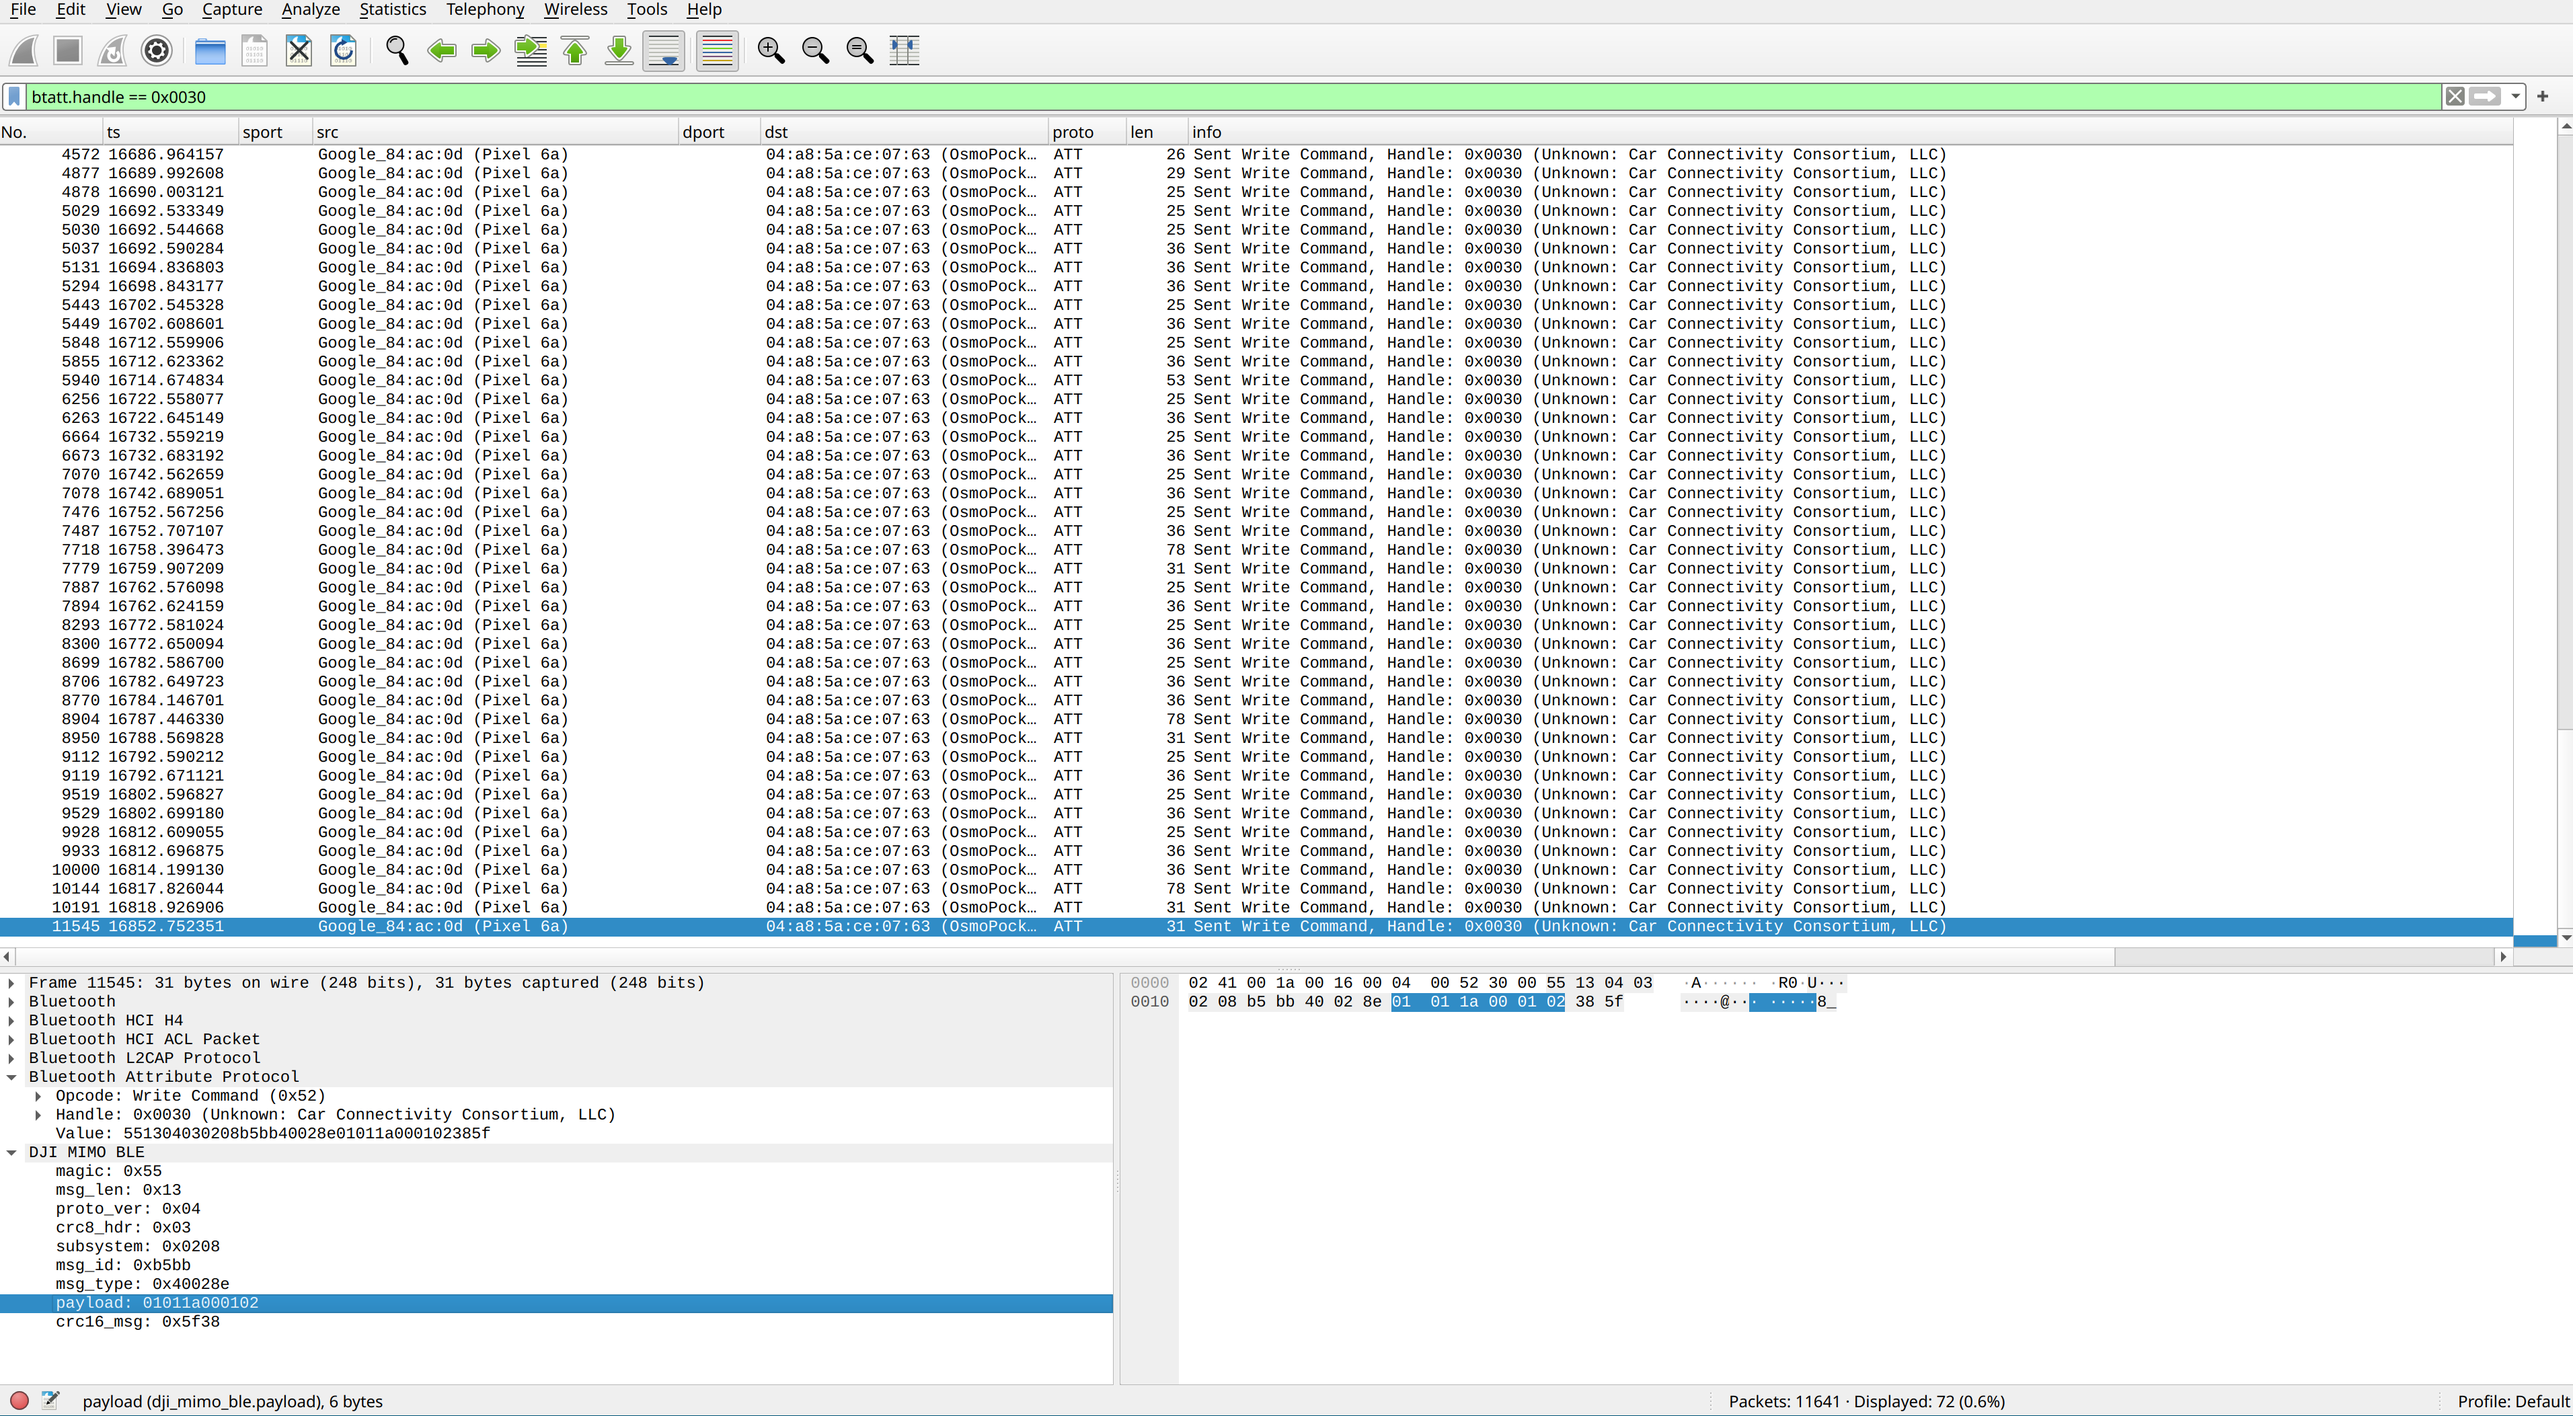
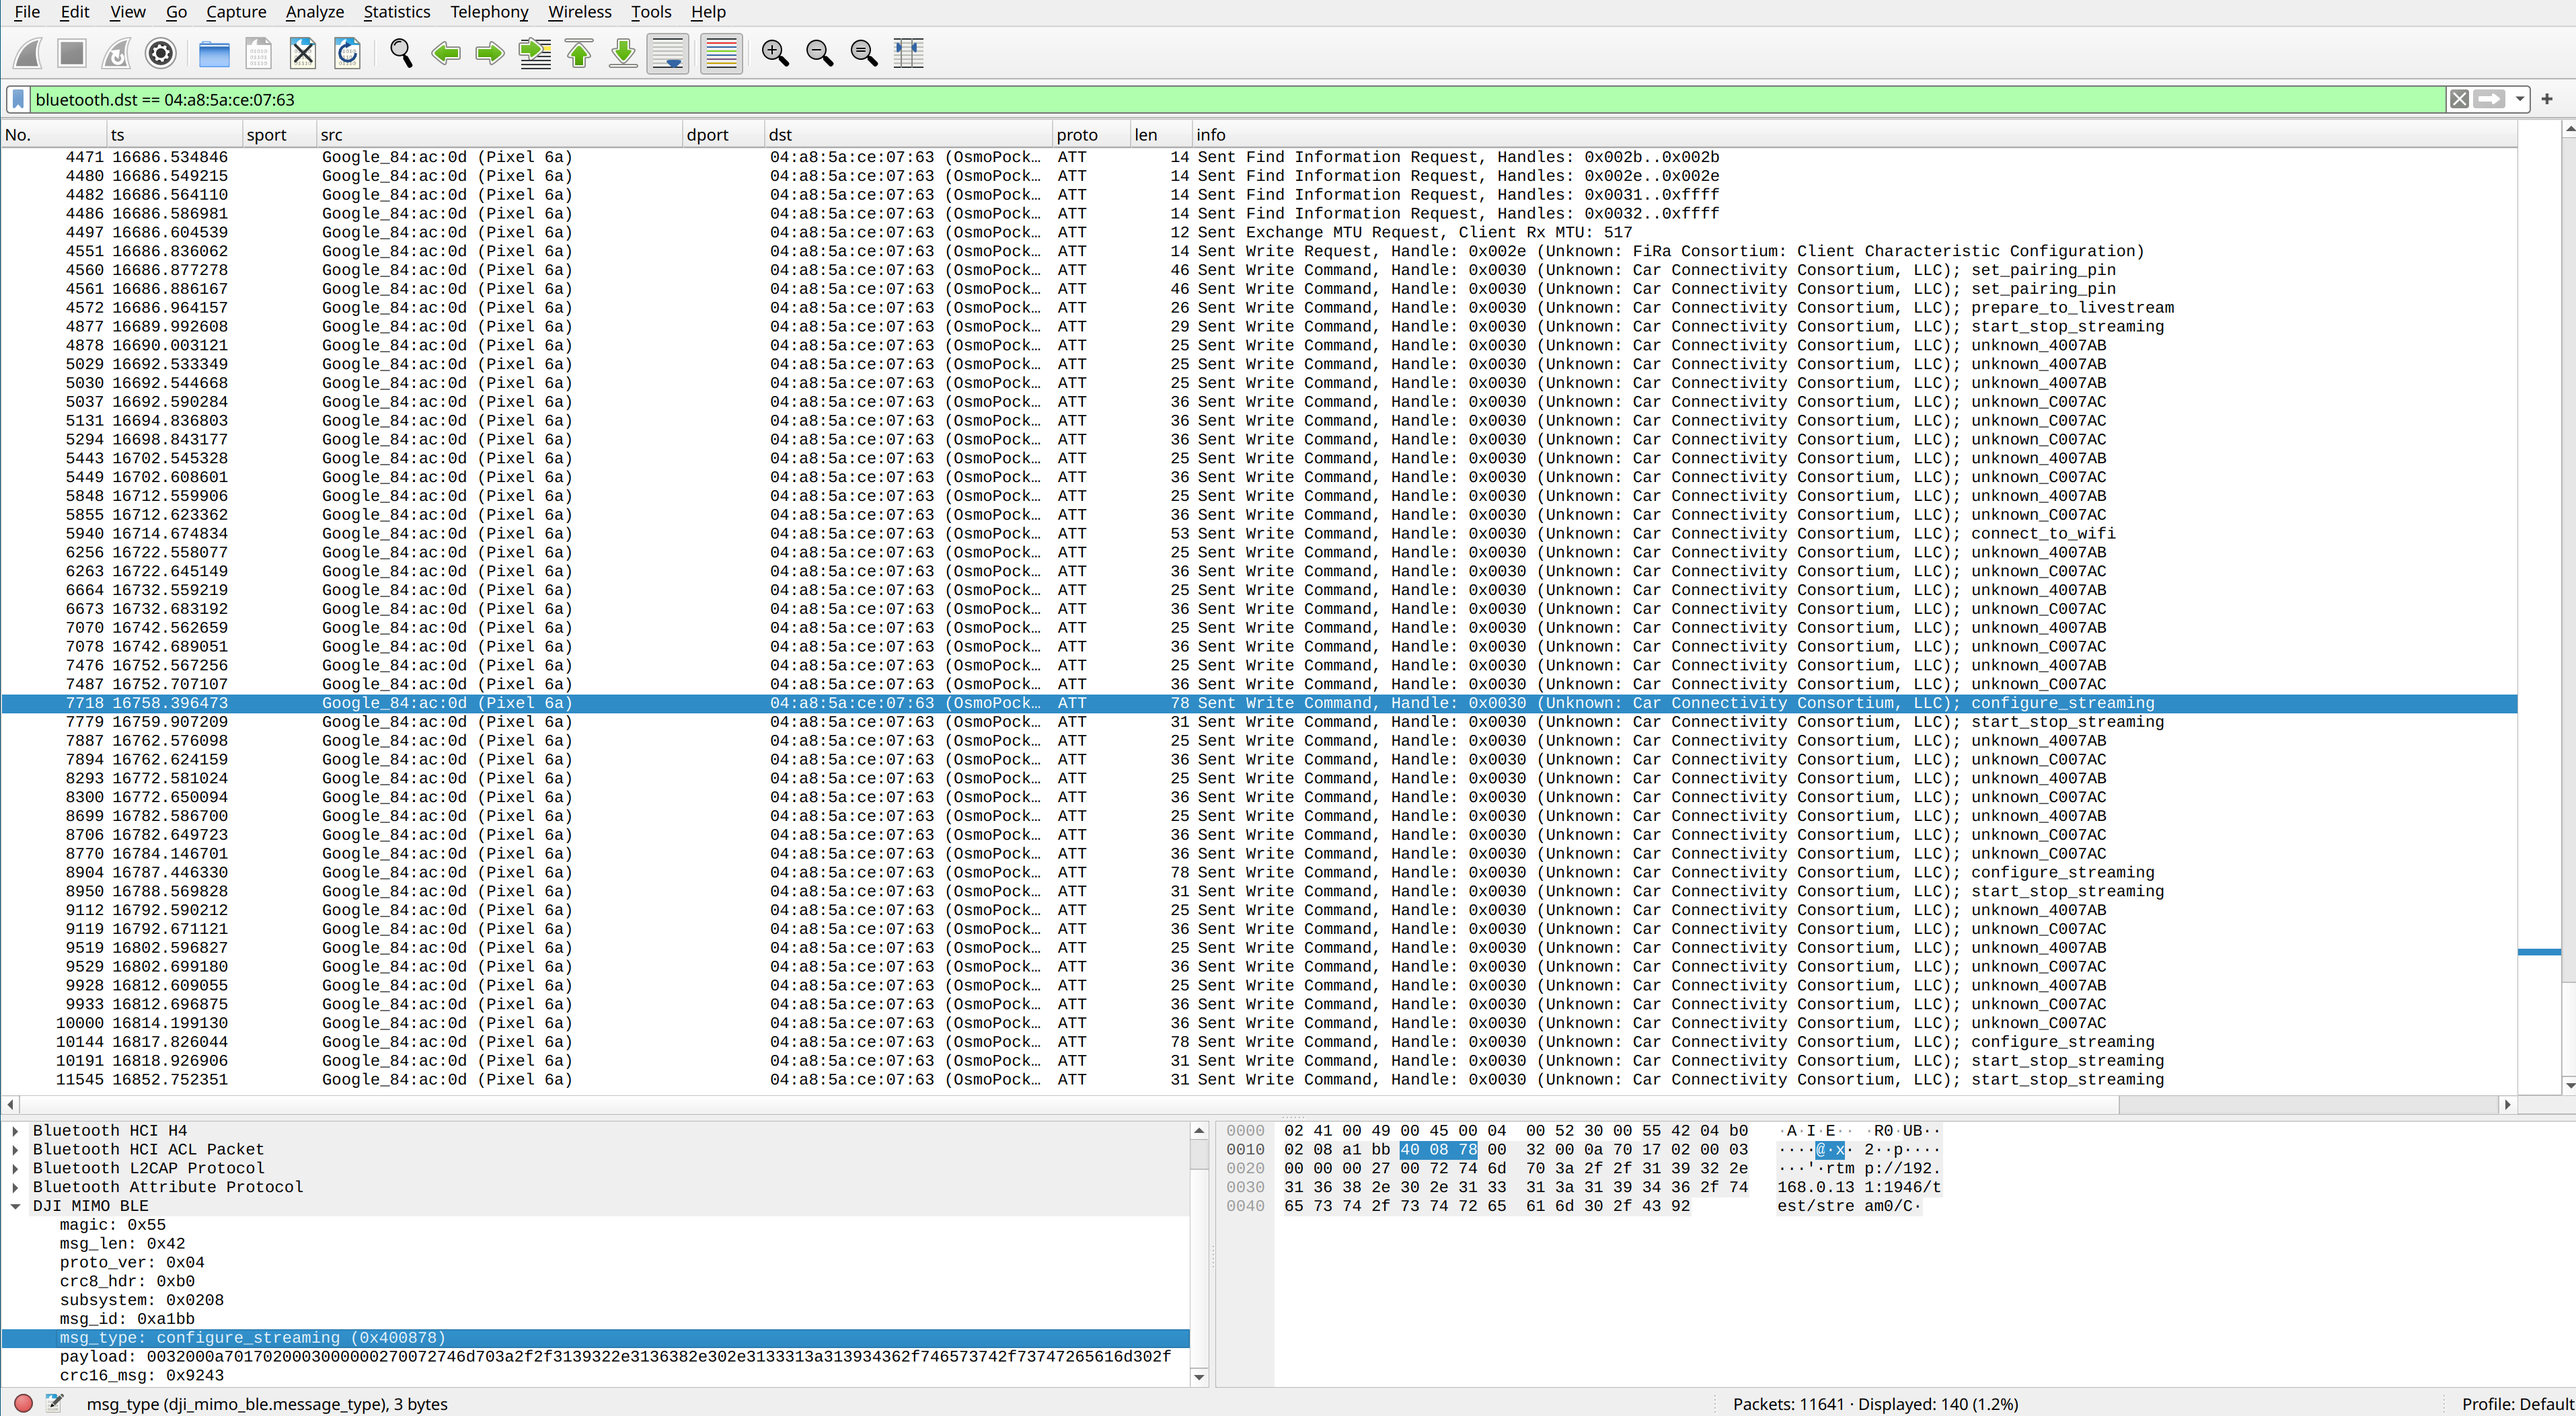
Print the message type in the packet info

Changed region(s): [[0.0, 0.0, 1.0, 1.0], [0.6532, 0.9877, 0.8087, 1.0], [0.9331, 0.9877, 1.0, 1.0]]

diff --git a/mimo/ble/wireshark-dissector/dji-ble-message.c b/mimo/ble/wireshark-dissector/dji-ble-message.c
@@ -23,7 +23,7 @@ static const value_string message_type_string[] = {
     { 0x400081, "device_info" },
     { 0x000099, "field_value" },
     { 0x0000F1, "keep_alive_F1?" },
-    { 0x000280, "pairing_started" },
+    { 0x000280, "ready?" },
     { 0x40028E, "start_stop_streaming" },
     { 0xC0028E, "unknown_C0028E" },
     { 0x4002E1, "prepare_to_livestream" },
@@ -36,8 +36,10 @@ static const value_string message_type_string[] = {
     { 0x400745, "set_pairing_pin" },
     { 0xC00746, "pair" },
     { 0x400747, "connect_to_wifi" },
+    { 0x4007AB, "unknown_4007AB" },
     { 0xC007AB, "unknown_C007AB" },
     { 0x4007AC, "wifi_scan_results" },
+    { 0xC007AC, "unknown_C007AC" },
     { 0x400878, "configure_streaming" },
     { 0x000D02, "streaming_status?" },
     { 0x042700, "pairing_required" },
@@ -47,17 +49,14 @@ static const value_string message_type_string[] = {
 
 static int dissect_dji_mimo_ble(tvbuff_t *tvb, packet_info *pinfo, proto_tree *tree _U_, void *data _U_)
 {
-    int offset = 0;
-    proto_item *ti;
-    proto_tree *st;
-
     if (tvb_get_guint8(tvb, 0) != 0x55) {
         return 0;
     }
 
-    ti = proto_tree_add_item(tree, proto_dji_mimo_ble, tvb, 0, -1, ENC_NA);
-    st = proto_item_add_subtree(ti, ett_dji_mimo_ble);
+    proto_item *ti = proto_tree_add_item(tree, proto_dji_mimo_ble, tvb, 0, -1, ENC_NA);
+    proto_tree *st = proto_item_add_subtree(ti, ett_dji_mimo_ble);
 
+    int offset = 0;
     proto_tree_add_item(st, hf_dji_mimo_ble_magic, tvb, offset, 1, ENC_LITTLE_ENDIAN);
     offset += 1;
     proto_tree_add_item(st, hf_dji_mimo_ble_length, tvb, offset, 1, ENC_LITTLE_ENDIAN);
@@ -72,12 +71,15 @@ static int dissect_dji_mimo_ble(tvbuff_t *tvb, packet_info *pinfo, proto_tree *t
     proto_tree_add_item(st, hf_dji_mimo_ble_message_id, tvb, offset, 2, ENC_BIG_ENDIAN);
     offset += 2;
     proto_tree_add_item(st, hf_dji_mimo_ble_message_type, tvb, offset, 3, ENC_BIG_ENDIAN);
+    guint32 message_type = tvb_get_guint24(tvb, offset, ENC_BIG_ENDIAN);
     offset += 3;
     proto_tree_add_item(st, hf_dji_mimo_ble_payload, tvb, offset, length-13, ENC_LITTLE_ENDIAN);
     offset += length-13;
     proto_tree_add_item(st, hf_dji_mimo_ble_crc16_msg, tvb, offset, 2, ENC_LITTLE_ENDIAN);
     offset += 2;
 
+    col_append_str(pinfo->cinfo, COL_INFO, "; ");
+    col_append_str(pinfo->cinfo, COL_INFO, val_to_str(message_type, message_type_string, "unknown_unknown_%X"));
     return offset;
 }
 

diff --git a/mimo/ble/message_types.md b/mimo/ble/message_types.md
@@ -927,3 +927,61 @@ DJI MIMO BLE
     msg_type: Unknown (0x400707)
     payload: 20
     crc16_msg: 0x10dc
+
+
+## `0x4007ab`
+
+### Thoughts
+
+No payload, do not know what it is. Calling `unknown_4007AB`.
+
+### Samples
+
+Bluetooth Attribute Protocol
+    Opcode: Write Command (0x52)
+        0... .... = Authentication Signature: False
+        .1.. .... = Command: True
+        ..01 0010 = Method: Write Request (0x12)
+    Handle: 0x0030 (Unknown: Car Connectivity Consortium, LLC)
+        [Service UUID: Unknown (0xfff0)]
+        [UUID: Car Connectivity Consortium, LLC (0xfff5)]
+    Value: 550d0433021bb0bb4007ab6633
+DJI MIMO BLE
+    magic: 0x55
+    msg_len: 0x0d
+    proto_ver: 0x04
+    crc8_hdr: 0x33
+    subsystem: 0x021b
+    msg_id: 0xb0bb
+    msg_type: Unknown (0x4007ab)
+    payload: <MISSING>
+    crc16_msg: 0x3366
+
+
+## `0xc007ac`
+
+### Thoughts
+
+I have no idea how to interpret:
+01 11 02 00 b5 d0 000000 75 2b
+
+Let's call it `unknown_C007AC`. But judging from the message type, I guess it is something related to streaming configuration.
+
+### Samples
+
+Frame 10000: 36 bytes on wire (288 bits), 36 bytes captured (288 bits)
+Bluetooth
+Bluetooth HCI H4
+Bluetooth HCI ACL Packet
+Bluetooth L2CAP Protocol
+Bluetooth Attribute Protocol
+DJI MIMO BLE
+    magic: 0x55
+    msg_len: 0x18
+    proto_ver: 0x04
+    crc8_hdr: 0x20
+    subsystem: 0x021b
+    msg_id: 0x0000
+    msg_type: Unknown (0xc007ac)
+    payload: 01110200b5d0000000752b
+    crc16_msg: 0xc280
